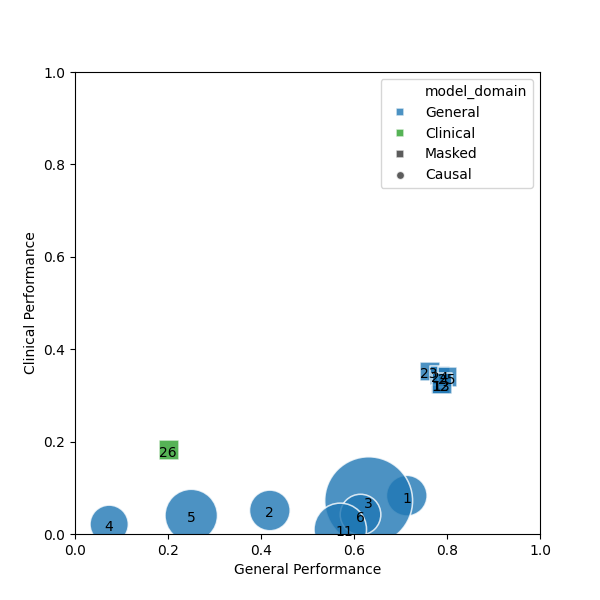
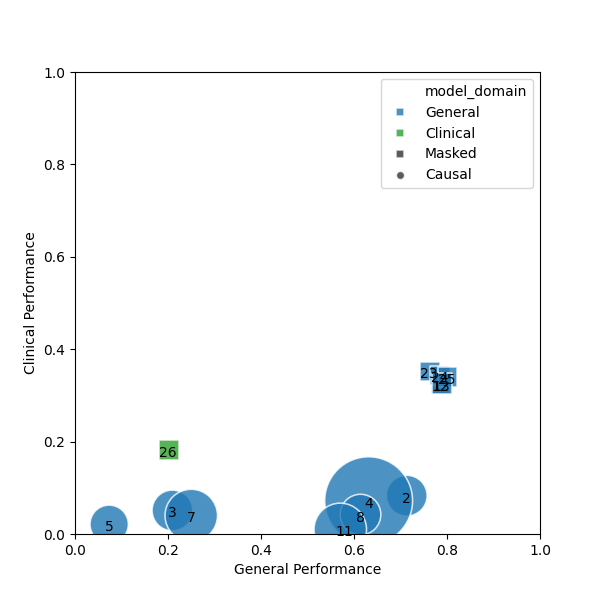
res

diff --git a/result_tabs_and_plots/results_table.tex b/result_tabs_and_plots/results_table.tex
@@ -8,15 +8,15 @@
 \midrule
 \multirow{11}{*}{\rotatebox[origin=c]{90}{Causal}} & 1- LLAMA-70B & - & 0.721 & - & - & - & - & - & - & 0.201 & 0.312 & - & - & - & - \\
  & 2- Mistral-7B & 0.754 & 0.645 & 0.488 & 0.291 & - & 0.727 & - & 0.59 & 0.229 & 0.333 & 0.72 & 0.707 & 0.083 & - \\
- & 3- BLOOM-7B1 & 0.524 & 0.569 & 0.279 & 0.113 & - & 0.143 & - & 0.32 & 0.166 & 0.12 & 0.0 & 0.419 & 0.051 & - \\
+ & 3- BLOOM-7B1 & 0.524 & 0.557 & 0.279 & 0.113 & - & 0.143 & - & 0.32 & 0.166 & 0.12 & 0.0 & 0.419 & 0.051 & - \\
  & 4- Falcon-40B & 0.686 & 0.708 & 0.28 & 0.279 & - & 0.662 & - & 0.378 & - & 0.283 & 0.72 & 0.543 & 0.072 & - \\
- & 5- GPT-J-6B & 0.521 & 0.486 & 0.167 & 0.179 & - & 0.423 & - & 0.334 & 0.08 & 0.177 & 0.005 & - & 0.021 & - \\
+ & 5- GPT-J-6B & 0.521 & 0.493 & 0.167 & 0.179 & - & 0.423 & - & 0.334 & 0.08 & 0.177 & 0.005 & 0.142 & 0.021 & - \\
  & 6- OPT-66B & - & 0.495 & - & - & - & - & - & - & 0.206 & - & - & - & - & - \\
- & 7- Vicuna-13B & 0.657 & 0.708 & 0.355 & 0.236 & - & 0.677 & - & 0.4 & - & 0.326 & - & 0.25 & 0.04 & - \\
+ & 7- Vicuna-13B & 0.657 & 0.708 & 0.355 & 0.236 & - & 0.677 & - & 0.399 & - & 0.326 & - & 0.25 & 0.04 & - \\
  & 8- Vicuna-7B & 0.594 & 0.489 & 0.259 & 0.147 & - & 0.591 & - & 0.439 & 0.152 & 0.296 & 0.659 & 0.569 & 0.042 & - \\
- & 9- BioMedLM & - & 0.243 & 0.024 & - & - & - & - & - & - & 0.019 & - & - & - & - \\
+ & 9- BioMedLM & - & 0.223 & 0.024 & - & - & - & - & - & - & 0.019 & - & - & - & - \\
  & 10- Medalpaca-7B & - & 0.558 & - & 0.191 & - & - & - & - & 0.161 & 0.224 & - & - & - & - \\
- & 11- Vigogne-13B & 0.593 & 0.666 & 0.252 & 0.176 & - & 0.515 & - & 0.464 & 0.099 & 0.142 & 0.58 & 0.561 & 0.01 & - \\
+ & 11- Vigogne-13B & 0.593 & 0.655 & 0.252 & 0.176 & - & 0.515 & - & 0.464 & 0.099 & 0.142 & 0.58 & 0.561 & 0.01 & - \\
 \midrule
 \multirow{15}{*}{\rotatebox[origin=c]{90}{Masked}} & 12- mBERT & 0.768 & 0.804 & 0.624 & 0.378 & - & 0.801 & - & 0.741 & 0.588 & 0.428 & 0.812 & 0.76 & 0.324 & - \\
  & 13- XLM-RoBERTa-large & 0.786 & 0.826 & 0.637 & 0.462 & - & 0.811 & - & 0.762 & 0.629 & 0.531 & 0.797 & 0.781 & 0.325 & - \\
